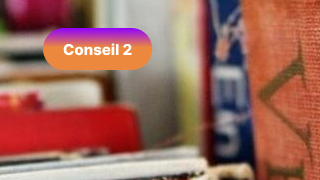
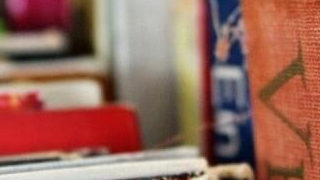
Ajout liens sur la page conseils et modif de l'image cons2

Changed region(s): [[0.125, 0.1389, 0.5, 0.3889]]

diff --git a/conseils.html b/conseils.html
@@ -137,7 +137,7 @@
     <div class="collapse navbar-collapse" id="navbarSupportedContent">
         <ul class="navbar-nav ms-auto">
             <li class="nav-item me-3">
-                <a class="nav-link text-dark" href="">Compte</a>
+                <a class="nav-link text-dark" href="loginTest.php">Compte</a>
             </li>
             <li class="nav-item me-3">
                 <a class="nav-link text-dark" href="">Favoris</a>
@@ -160,24 +160,16 @@
     <div class="collapse navbar-collapse" id="navbarSupportedContent">
       <ul class="navbar-nav me-auto mb-2 mb-lg-0">
         <li class="nav-item">
-          <a class="nav-link text-dark" aria-current="page" href="#">Accueil</a>
+          <a class="nav-link text-dark" aria-current="page" href="pageaccueil.php">Accueil</a>
         </li>
-        <li class="nav-item dropdown">
-          <a class="nav-link dropdown-toggle text-dark" href="#" role="button" data-bs-toggle="dropdown" aria-expanded="false">
-            Vinyles
-          </a>
-          <ul class="dropdown-menu">
-            <li><a class="dropdown-item" href="#">Truc 1</a></li>
-            <li><a class="dropdown-item" href="#">Truc 2</a></li>
-            <li><hr class="dropdown-divider"></li>
-            <li><a class="dropdown-item" href="#">Something else here</a></li>
-          </ul>
+        <li class="nav-item">
+          <a class="nav-link text-dark" aria-current="page" href="vinyles.php">Vinyles</a>
         </li>
         <li class="nav-item">
           <a class="nav-link text-dark" aria-current="page" href="#">Ventes</a>
         </li>
         <li class="nav-item">
-          <a class="nav-link text-dark" href="#">Conseil&Guide</a>
+          <a class="nav-link text-dark" href="conseils.html">Conseil&Guide</a>
         </li>
       </ul>
     </div>
@@ -225,7 +217,7 @@
             <div class="conseil-image">
                 <img src="img/cons2.png" alt="Conseil 2" />
                 <div class="conseil-title">
-                    <div class="conseil-title-text">Conseil 1</div>
+                    <div class="conseil-title-text">Conseil 2</div>
                 </div>
             </div>
             <div class="conseil-description">
